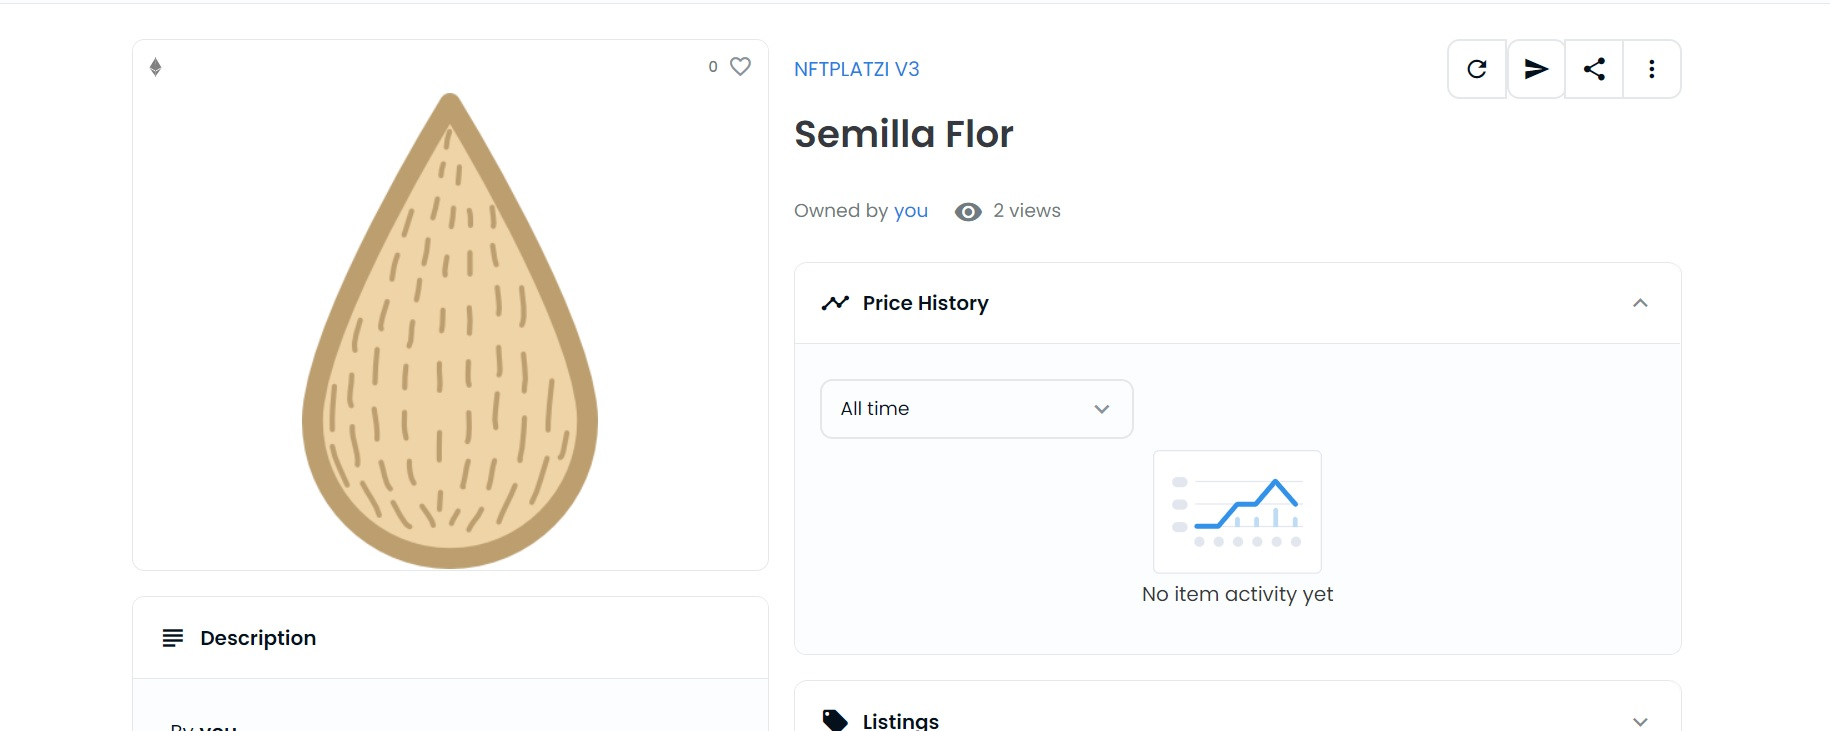
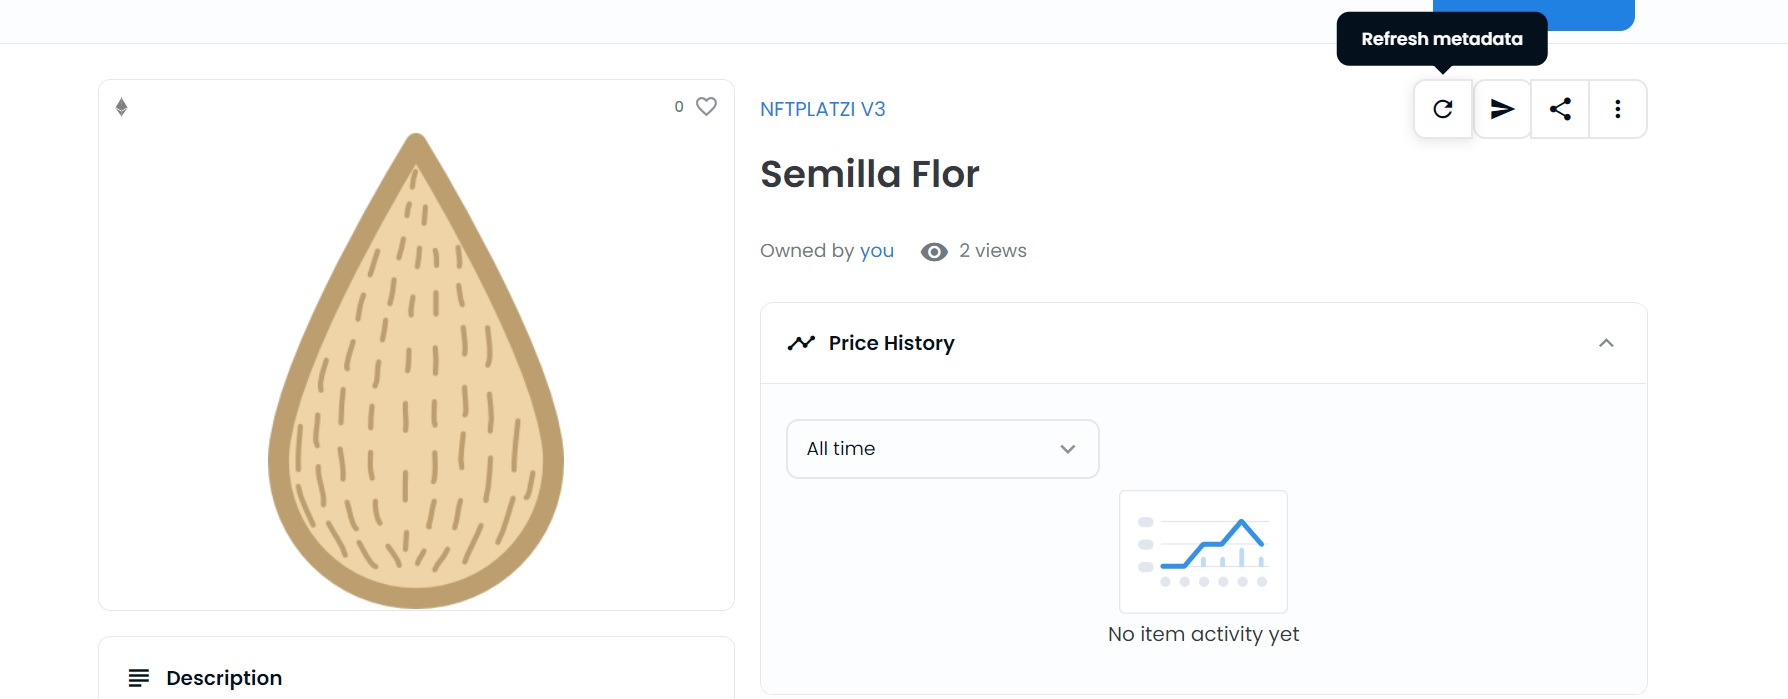
Fix image

diff --git a/README.md b/README.md
@@ -19,7 +19,23 @@ Los pasos que debes seguir son:
 9. Aprobamos la transacción
 10. Ya podemos ver como nuestro NFT va a cambiar metadata dependiendo del tiempo que hayamos al momento de desplegar el contrato y que sera el que ejecute el keeper de chainlink.
 11. Para validar que efectivamete la metadata de nuestro NFT esta cambiando correctamente podemos usar las funciones de tokenURI que nos permite saber que metada tiene el determinado NFT o la función flowerStage que puede retornar un número entre 0-2.
-12. Si quiere visualizar como cambia la metadata de tu NFT en opensea 
+12. Si quiere visualizar como cambia la metadata de tu NFT en opensea tienes que ingresar a la colección que creaste, ingresar en el primer elemento y en la esquina superior derecha selección la opción actualizar metadata, finalmente debes actualizar la ventana para poder ver los cambios.
+
+![Actualizar metadata](image/uptadeMetadata.jpg)
+
+## Reto 2
+
+1. Modifica el código original del repositorio para permitir que tu NFT tenga 5 cambios de metadata.
+2. Realizar el despliegue del contrato módifico 
+3. Crear una nueva automatización por tiempo como se ejecuto en el paso 1.
+
+## Reto 3 (Opcional)
+
+1. Crear una interfaz gráfica con react que permita subir la archivos de la metadata y que desde allí se encargue de subirlo a la red IPFS de su preferencia 
+2. Desplegar el contrato inteligente.
+3. Realizar las pruebas de funcionamiento
+
+
 
 ## Recursos
 
